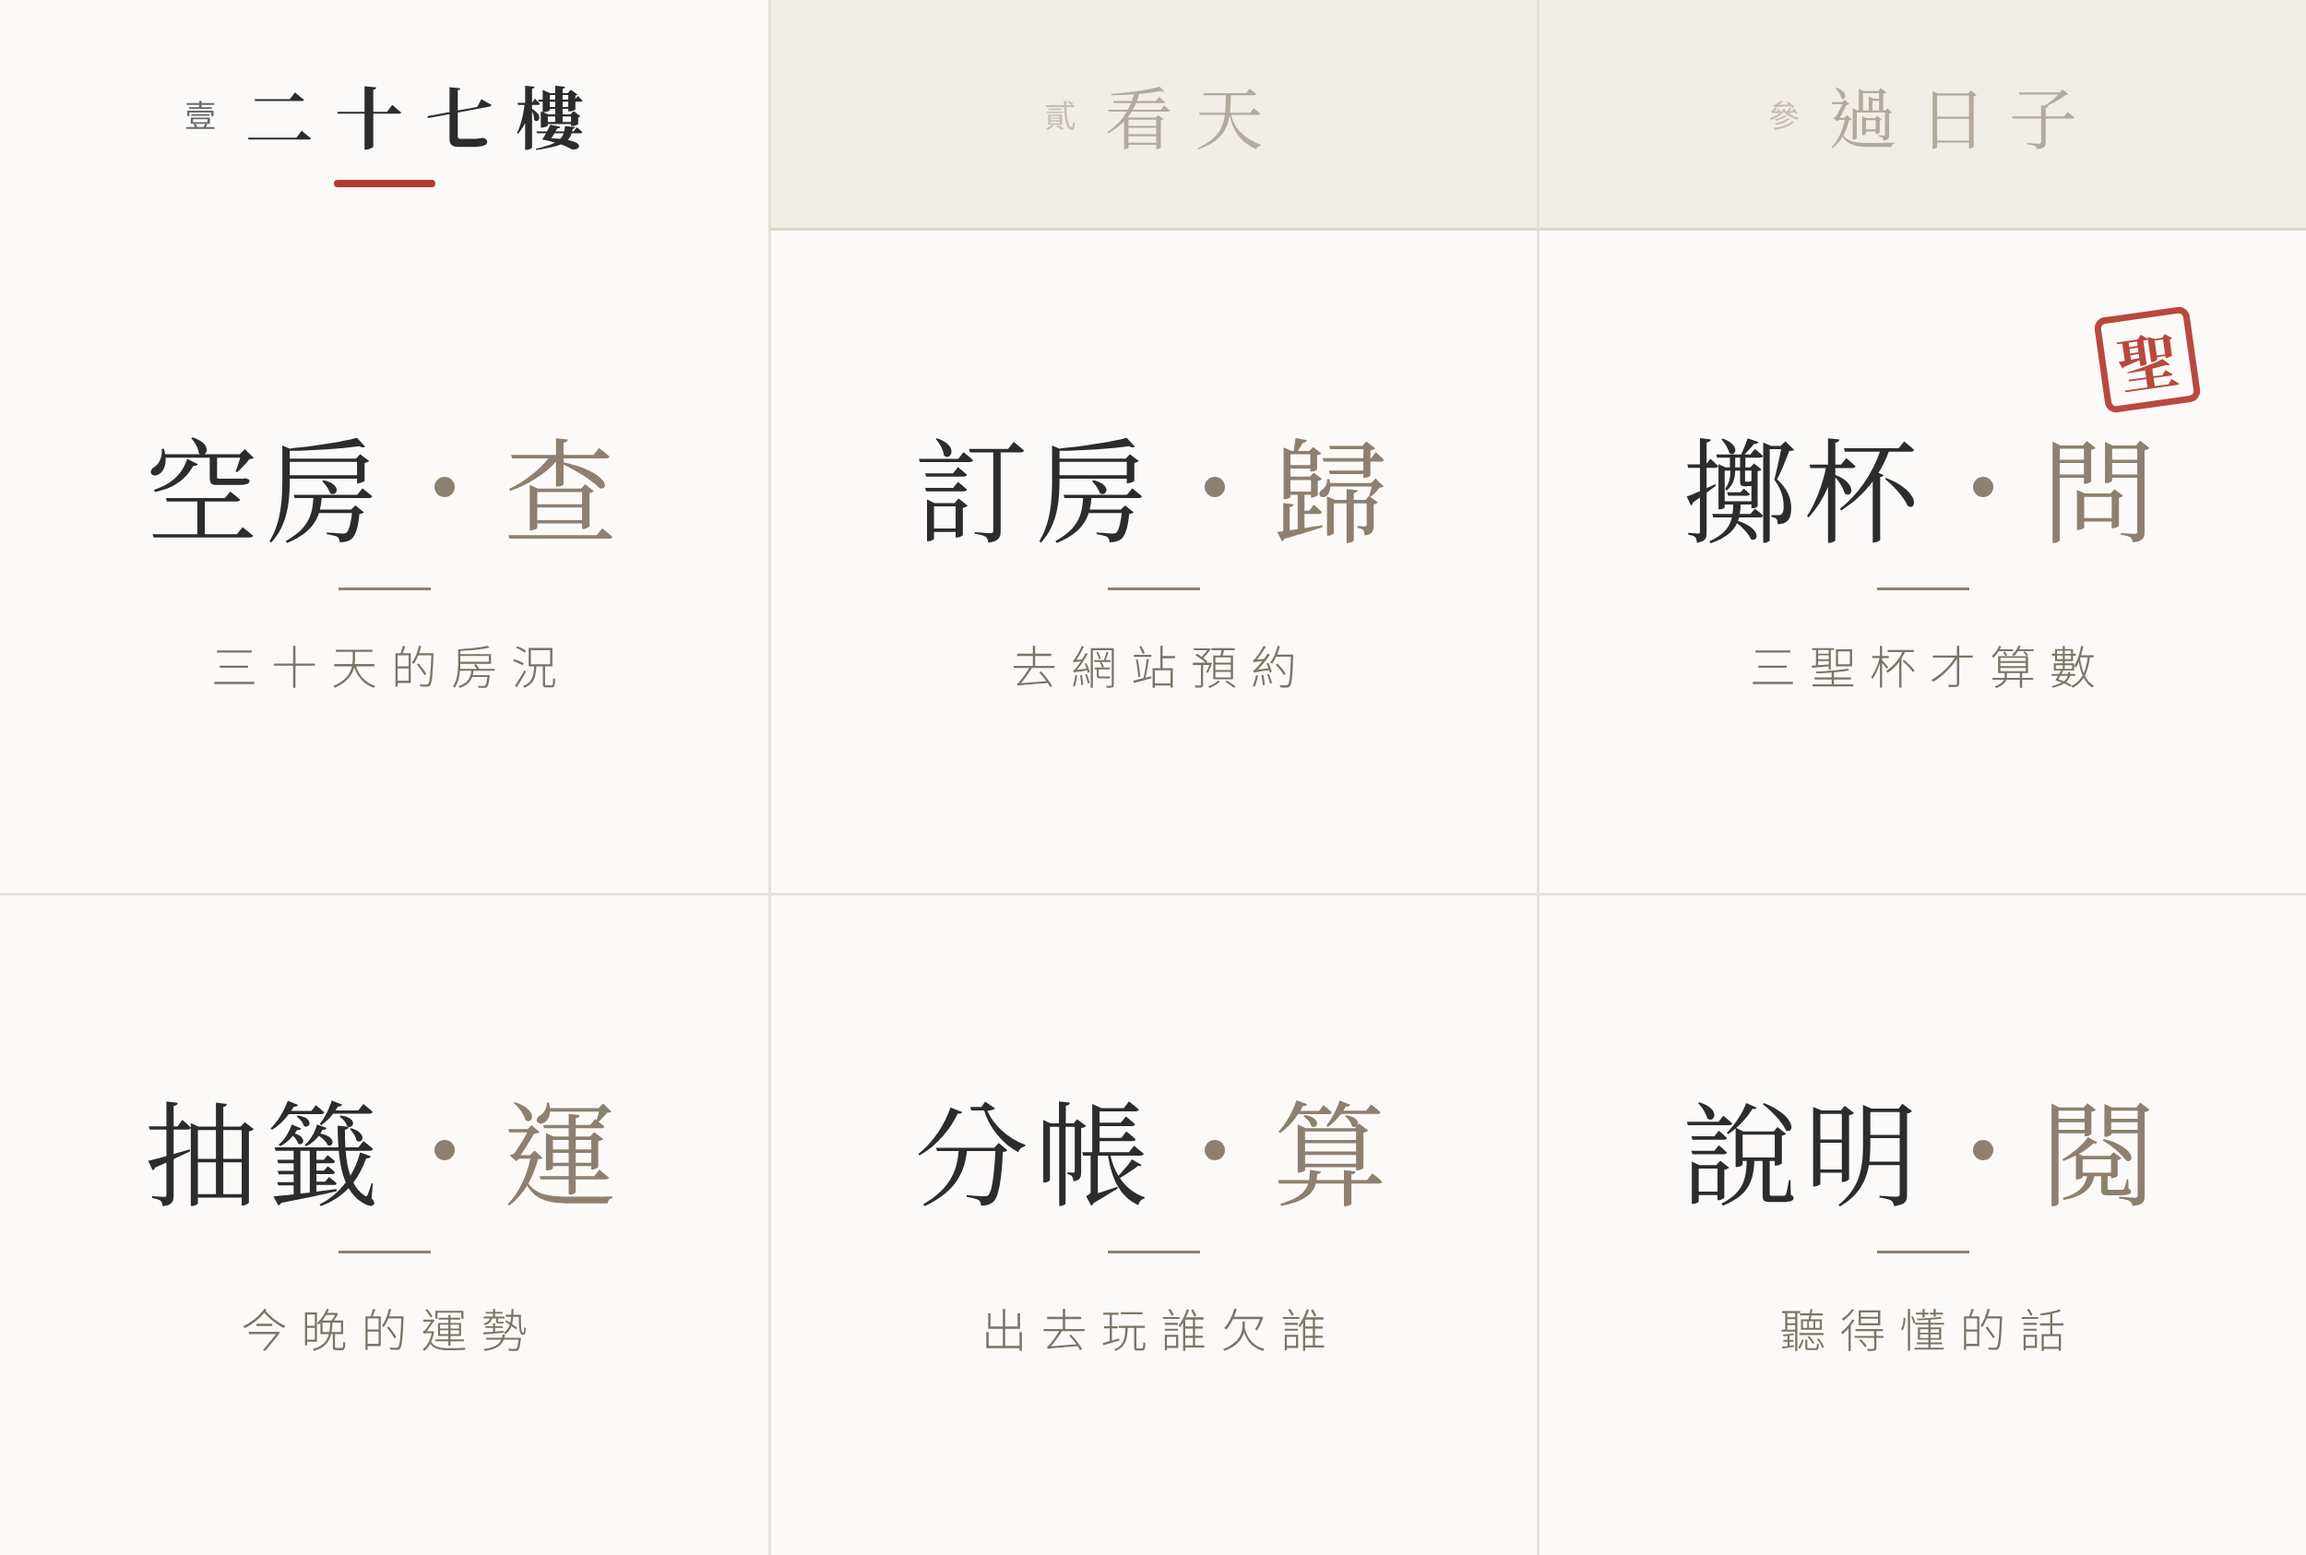
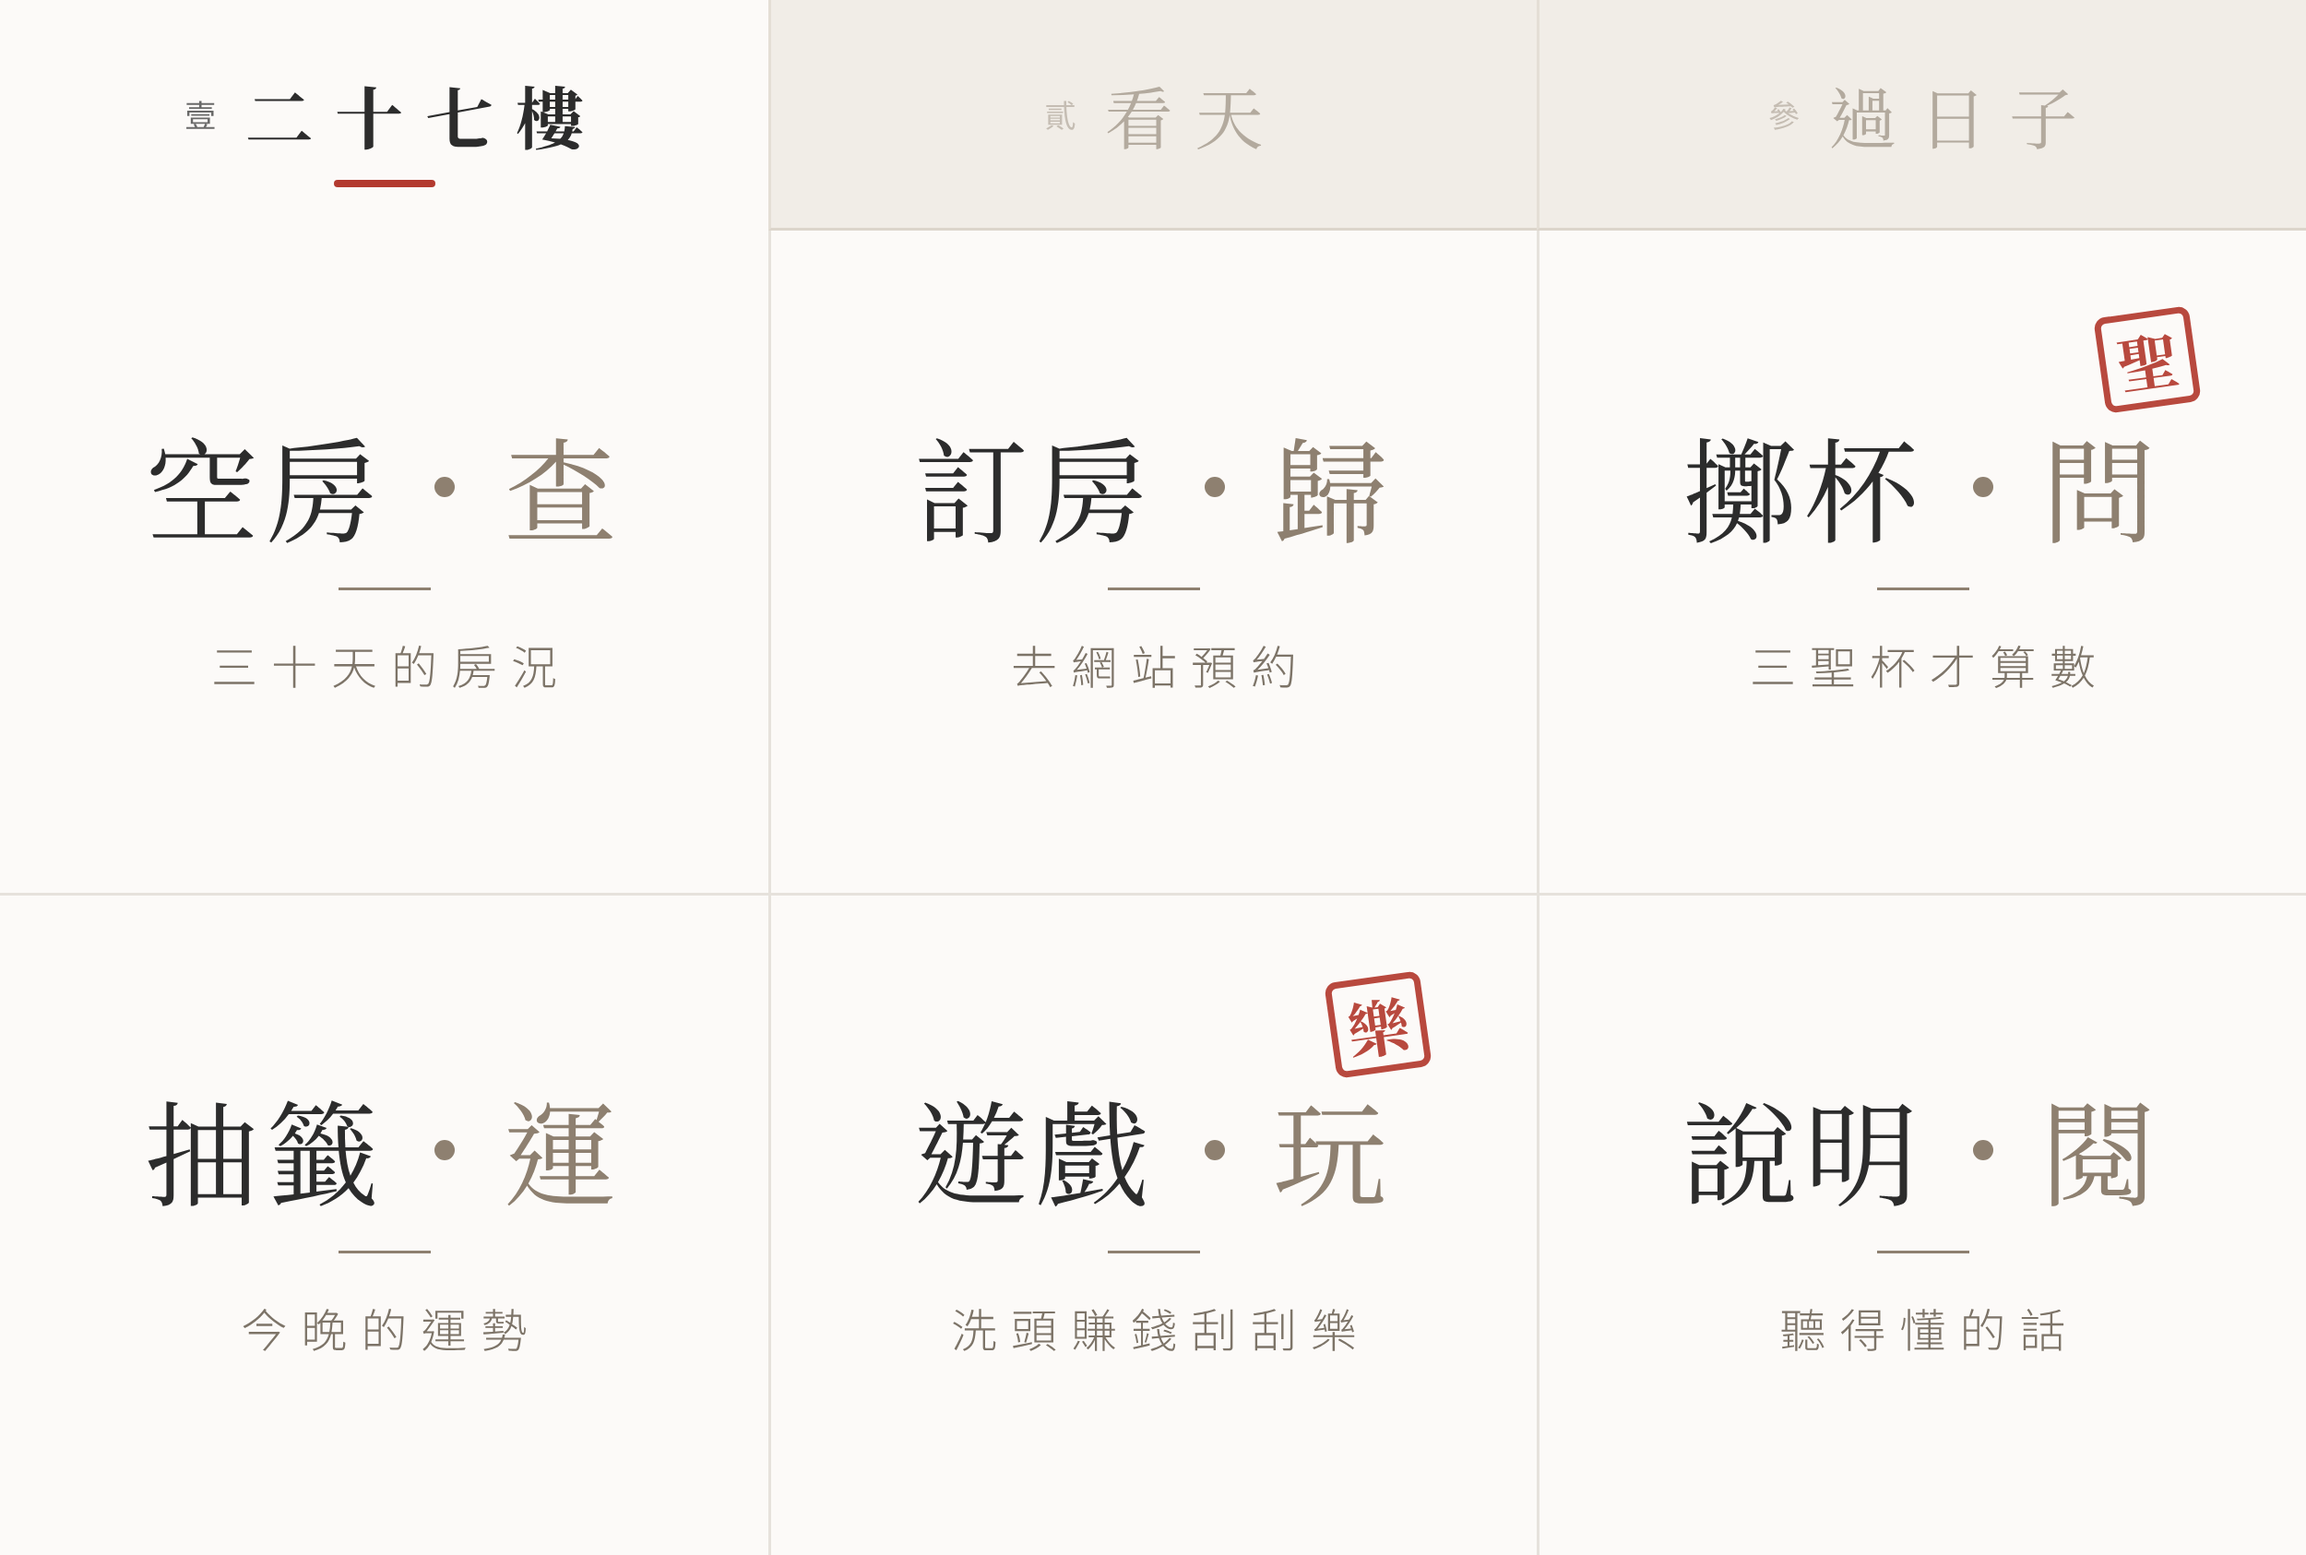
rich menu: swap split for mini games (LIFF member page)
Claude-Session: https://claude.ai/code/session_01DfELKGAuUeHGLNNJha5AAX

Changed region(s): [[0.5616, 0.6168, 0.624, 0.7711], [0.4056, 0.8327, 0.5928, 0.8636], [0.4056, 0.7094, 0.4992, 0.7711]]

diff --git a/CLAUDE.md b/CLAUDE.md
@@ -116,7 +116,7 @@
 - 指令碼屬性：`LINE_CHANNEL_ACCESS_TOKEN`、`SHEET_ID`、`WEBHOOK_KEY`（webhook 網址要帶 `?key=`，對不上或沒設定就不處理）。
 - 擲杯的三聖杯存在 `CacheService`，key 是 `streak:` + groupId／roomId／userId，6 小時。
 - **台詞跟網站同步**：擲杯台詞（`jiaobei.html` 的 `RESULTS`）、御神籤（`index.html` 的 `FORTUNES`）改了，`line-bot/Code.gs` 的 `JIAOBEI_LINES`、`FORTUNES` 也要改，並請使用者重新部署 bot 專案。
-- **圖文選單是三個分頁**（`Code.gs` 的 `RICH_MENUS`，用 Messaging API 建，不是在 Official Account Manager 手動設）：上面一排分頁（壹 二十七樓、貳 看天、參 過日子，高 250px，`richmenuswitch` 切換，分頁代號 `dbl-27`／`dbl-sky`／`dbl-life`），下面 3×2 六格（message 動作等於幫使用者打指令，訂房、分帳是 uri）。圖是 `line-bot/richmenu-27/sky/life.png`（2500×1686），由 `line-bot/richmenu-tabs.js` 照 `richmenu-tabs.json` 產生；**`richmenu-tabs.json` 和 `RICH_MENUS` 要手動保持一致**，改了要把 `RICH_MENU_VERSION` 加一，請使用者在編輯器執行 `setupRichMenus()`（先驗證全部、先抓好圖才開始建，建好換分頁代號、設預設、刪掉舊的 `dbl-*`）；`removeRichMenus()` 回到 Official Account Manager 的舊選單（`line-bot/richmenu.png`）。點分頁 LINE 會送 postback，`doPost` 不處理 postback，所以不會回話。群組裡看不到圖文選單。新增指令想放進選單，要換掉某一格。
+- **圖文選單是三個分頁**（`Code.gs` 的 `RICH_MENUS`，用 Messaging API 建，不是在 Official Account Manager 手動設）：上面一排分頁（壹 二十七樓、貳 看天、參 過日子，高 250px，`richmenuswitch` 切換，分頁代號 `dbl-27`／`dbl-sky`／`dbl-life`），下面 3×2 六格（message 動作等於幫使用者打指令；訂房是網站網址；「遊戲・玩」是 `GAMES_URL` = 網站 LIFF 的 `member.html`，在 LINE 裡點開會自動用 LINE 登入、錢包跟著帳號。分帳不在選單上了，打「分帳」還是有）。圖是 `line-bot/richmenu-27/sky/life.png`（2500×1686），由 `line-bot/richmenu-tabs.js` 照 `richmenu-tabs.json` 產生；**`richmenu-tabs.json` 和 `RICH_MENUS` 要手動保持一致**，改了要把 `RICH_MENU_VERSION` 加一，請使用者在編輯器執行 `setupRichMenus()`（先驗證全部、先抓好圖才開始建，建好換分頁代號、設預設、刪掉舊的 `dbl-*`）；`removeRichMenus()` 回到 Official Account Manager 的舊選單（`line-bot/richmenu.png`）。點分頁 LINE 會送 postback，`doPost` 不處理 postback，所以不會回話。群組裡看不到圖文選單。新增指令想放進選單，要換掉某一格。
 
 ## 設計規範
 

diff --git a/line-bot/README.md b/line-bot/README.md
@@ -70,7 +70,7 @@
 
 | 分頁 | 上排（左到右） | 下排（左到右） |
 | --- | --- | --- |
-| 壹 二十七樓 | 空房・查、訂房・歸（網站）、擲杯・問 | 抽籤・運、分帳・算（打開分帳）、說明・閱 |
+| 壹 二十七樓 | 空房・查、訂房・歸（網站）、擲杯・問 | 抽籤・運、遊戲・玩（網站的會員中心，在 LINE 裡打開會自動登入）、說明・閱 |
 | 貳 看天 | 天氣・觀、空氣・吸、夕陽・望 | 月亮・圓、節氣・候、放假・休 |
 | 參 過日子 | 油價・漲、股價・看（台積電）、排球・賽 | 戰績・排、狗狗・汪、貓咪・喵 |
 
